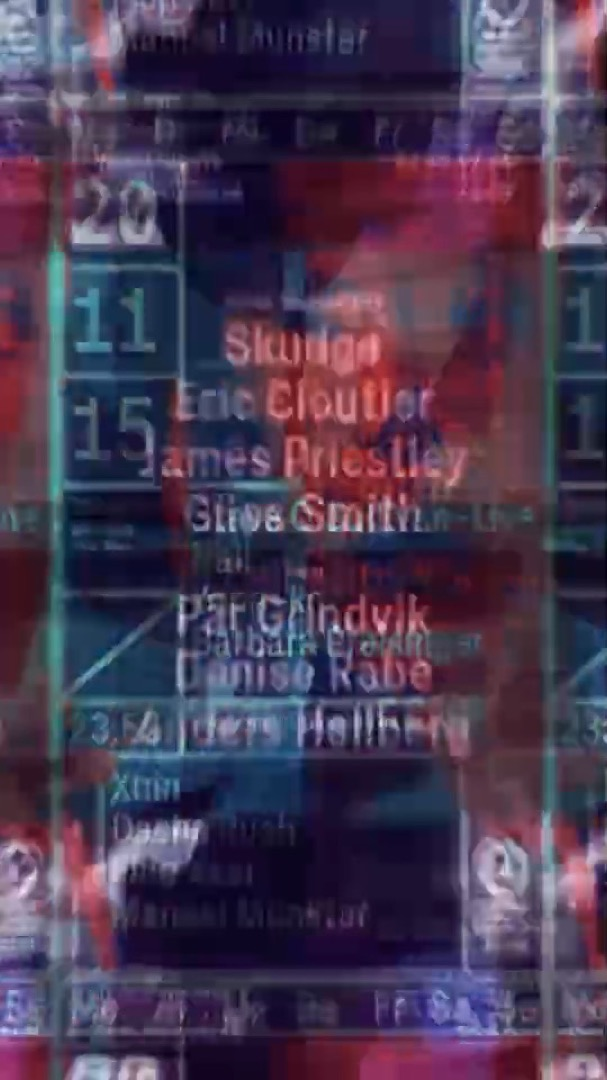
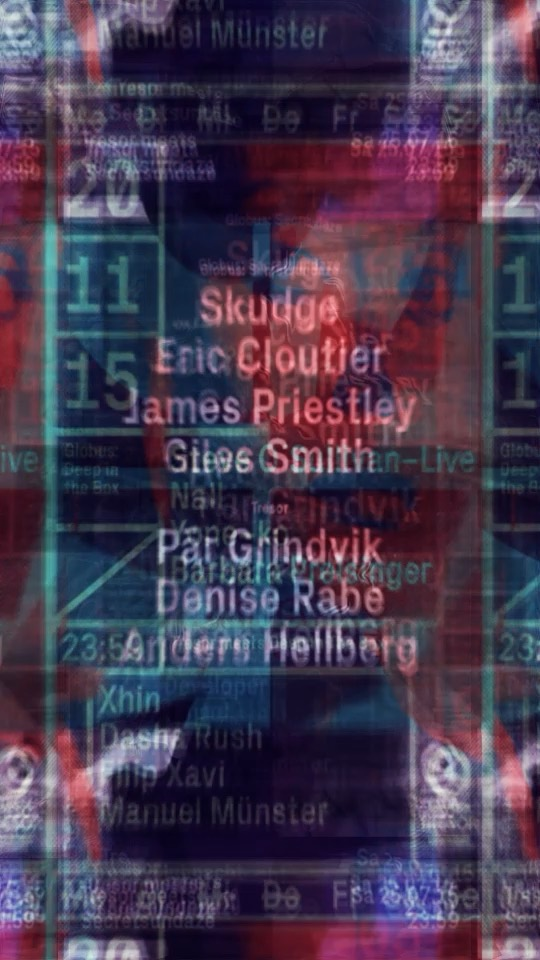
Take ADD's thumbnail from the master, at exactly 24.0s
The frame on the page came from the 1400 kbps working copy, where the
names in the picture had smeared into each other. The master runs at
10500 kbps and holds them.

Extracting it needed the frame grabber set to zero tolerance: it had
been allowed to drift up to a second to the nearest keyframe, and this
film cuts fast enough that a second lands in a different shot
altogether. That drift is why the first attempt came back with an
entirely different picture.

diff --git a/index.html b/index.html
@@ -151,7 +151,7 @@
       </div>
       <div class="work__media work__media--portrait">
         <button class="facade" type="button" data-video="https://www.youtube-nocookie.com/embed/5aIS4EL18sk?autoplay=1&amp;rel=0" data-title="ADD">
-          <img src="assets/poster-add.jpg" alt="" loading="lazy" width="607" height="1080">
+          <img src="assets/poster-add.jpg" alt="" loading="lazy" width="540" height="960">
           <span class="facade__play" aria-hidden="true"></span>
           <span class="facade__label">Play video</span>
         </button>
